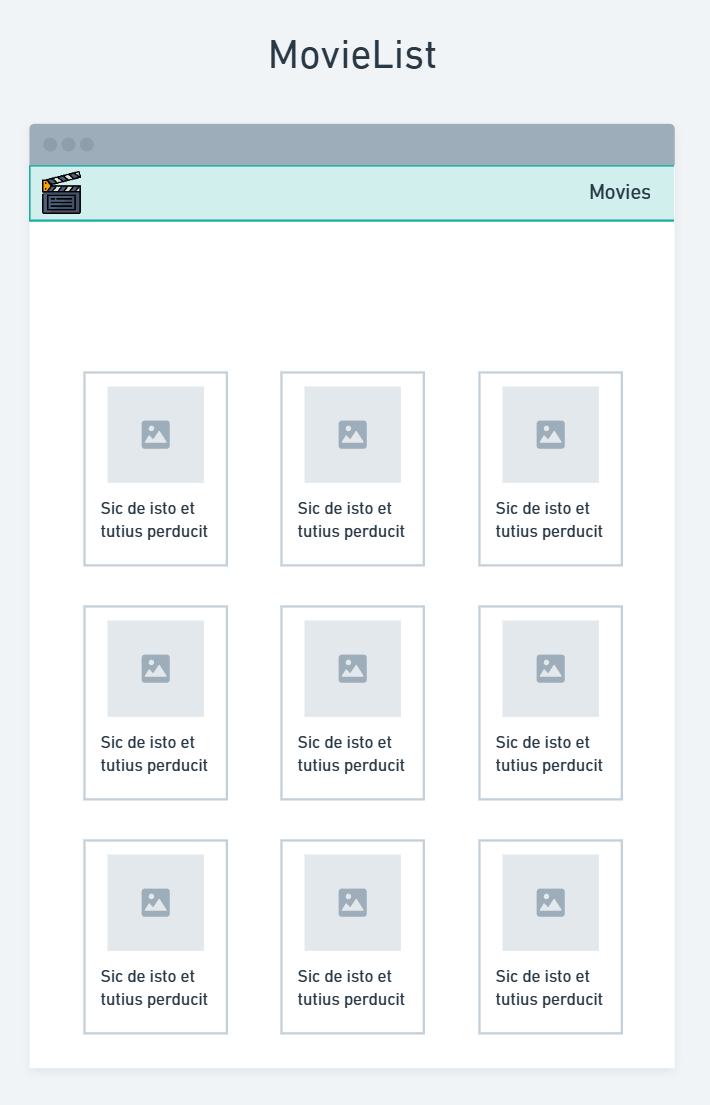
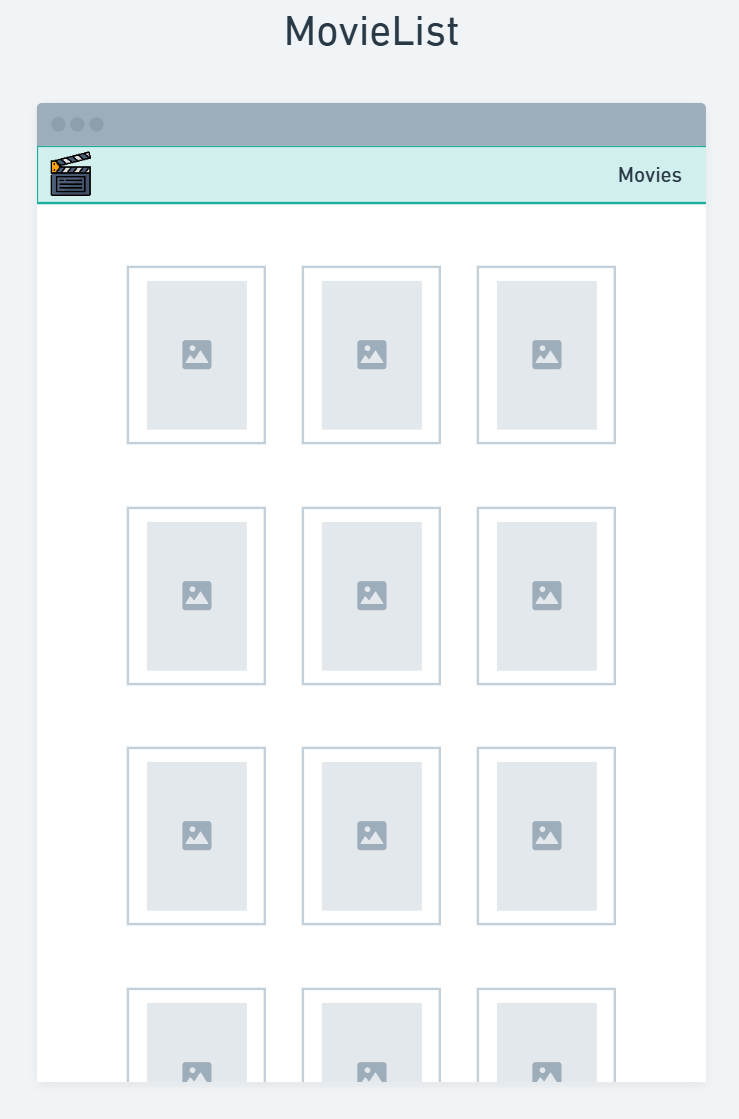
update wireframes and add more CSS

diff --git a/src/index.css b/src/index.css
@@ -15,11 +15,11 @@ html {
      in most browser configurations this will be 10px */
 :root {
   /* font-size: 62.5%; */
-  --darkest: #0A1128;
-  --dark: #001F54;
-  --middle: #034078;
-  --light: #1282A2;
-  --lightest: #FEFCFB;
+  --darkest: #01161E;
+  --dark: #124559;
+  --middle: #598392;
+  --light: #AEC3B0;
+  --lightest: #EFF6E0;
 }
 
 body {
@@ -105,4 +105,12 @@ body {
   --middle: #134074;
   --light: #8DA9C4;
   --lightest: #EEF4ED;
+}
+
+.theme-9 {
+  --darkest: #01161E;
+  --dark: #124559;
+  --middle: #598392;
+  --light: #AEC3B0;
+  --lightest: #EFF6E0;
 }

diff --git a/src/components/MovieCard/MovieCard.css b/src/components/MovieCard/MovieCard.css
@@ -3,6 +3,10 @@
   flex-direction: column;
   align-items: center;
   justify-content: center;
+  background-color: var(--middle);
+  padding: 30px;
+  border-radius: 16px;
+  box-shadow: 5px 5px 5px var(--light);
 }
 
 .card > img {
